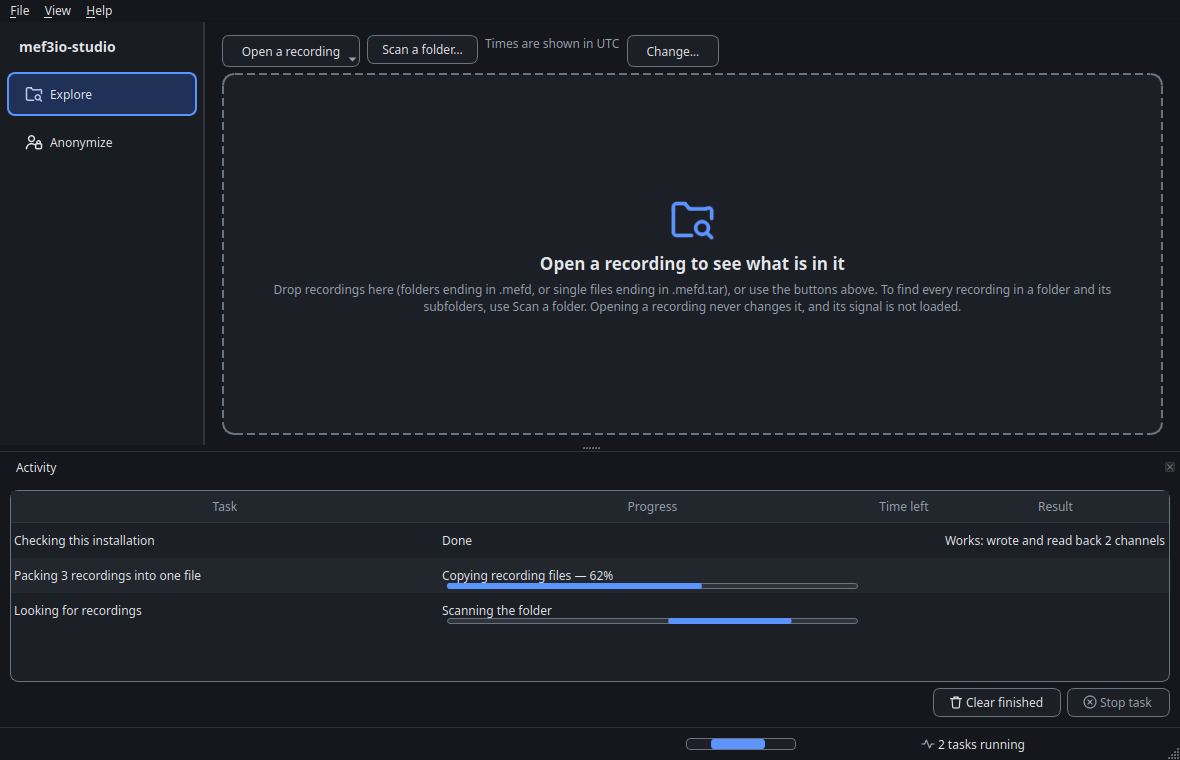
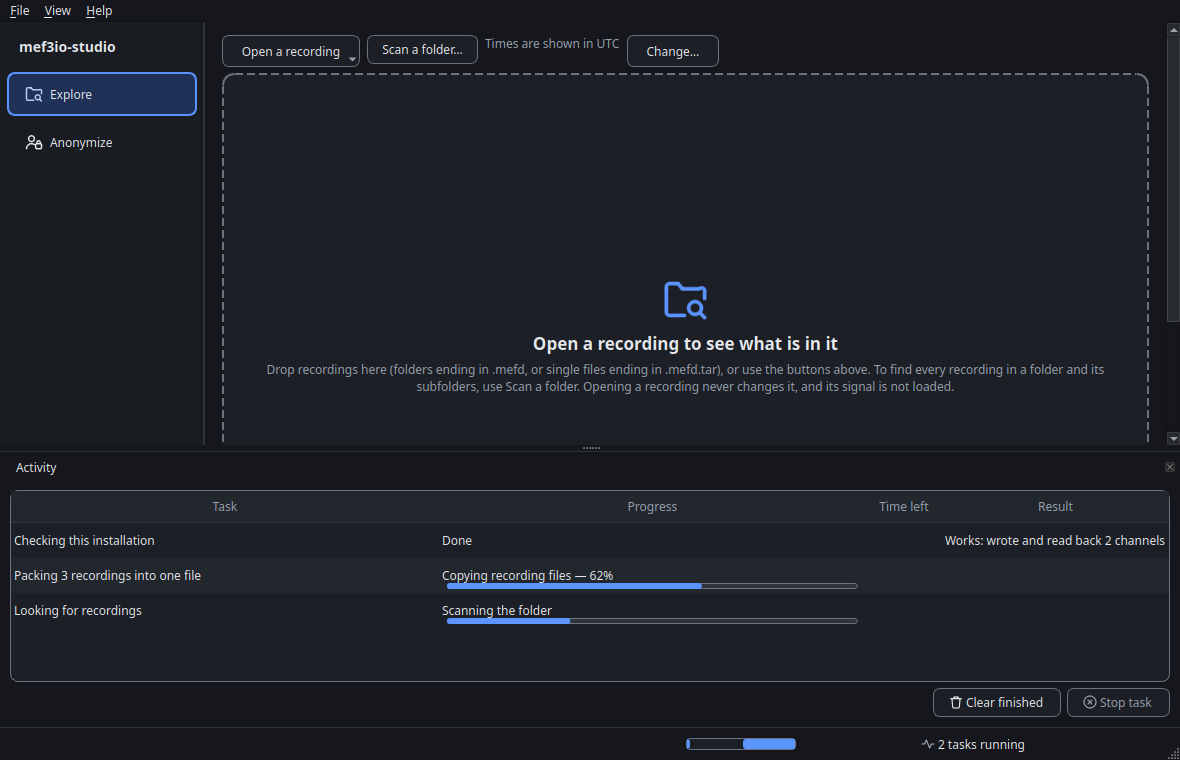
Address review round 6: the list's buttons are never cut off
- The list and its wrapping row of buttons report a minimum height for
  their current width (recomputed when the wrap changes), so the
  splitter never squeezes the wrapped row away; the page's minimum
  includes it, so a short window scrolls instead. Test at 1.0x and 1.5x
  font with the activity panel open, across window sizes (fails before).
- The list keeps at least three rows visible before the page scrolls.
- The page's content keeps direct references to its parts instead of
  relying on layout positions.

Claude-Session: https://claude.ai/code/session_01PWYBRHqzczzUfo99eFKLmQ

diff --git a/src/mef3io_studio/explorer/page.py b/src/mef3io_studio/explorer/page.py
@@ -91,19 +91,62 @@ class _FitInner(QWidget):
     reports the minimum instead: the page fills the window and scrolls only
     when the window is shorter than that."""
 
+    def __init__(self, toolbar, body: QWidget, margins: tuple[int, int, int, int]):
+        super().__init__()
+        self._toolbar, self._body = toolbar, body
+        layout = QVBoxLayout(self)
+        layout.setContentsMargins(*margins)
+        layout.addLayout(toolbar)
+        layout.addWidget(body, 1)
+
     def heightForWidth(self, width: int) -> int:  # noqa: N802
         layout = self.layout()
         margins = layout.contentsMargins()
-        toolbar = layout.itemAt(0).layout()
-        body = layout.itemAt(1).widget()
         inner_width = width - margins.left() - margins.right()
         return (
             margins.top()
             + margins.bottom()
-            + toolbar.heightForWidth(inner_width)
+            + self._toolbar.heightForWidth(inner_width)
             + layout.spacing()
-            + body.minimumSizeHint().height()
+            + self._body.minimumSizeHint().height()
         )
+
+
+class _ListBox(QWidget):
+    """The recordings list and its row of buttons. The buttons wrap onto
+    more lines when narrow, so the minimum height depends on the width:
+    reported here, so the splitter never squeezes the wrapped row away."""
+
+    def __init__(self, table: QTableView, actions, parent=None):
+        super().__init__(parent)
+        self._table, self._actions = table, actions
+        self._wrapped = -1
+        layout = QVBoxLayout(self)
+        layout.setContentsMargins(0, 0, 0, 0)
+        layout.addWidget(table, 1)
+        layout.addLayout(actions)
+        # At least a few rows of the list, so a short window scrolls the
+        # page rather than showing a header with no rows.
+        rows = table.verticalHeader().defaultSectionSize()
+        table.setMinimumHeight(table.horizontalHeader().sizeHint().height() + rows * 3 + 4)
+
+    def _actions_height(self) -> int:
+        width = self.width() if self.width() > 0 else self.sizeHint().width()
+        return self._actions.heightForWidth(width)
+
+    def minimumSizeHint(self):  # noqa: N802
+        hint = super().minimumSizeHint()
+        hint.setHeight(
+            self._table.minimumHeight() + self.layout().spacing() + self._actions_height()
+        )
+        return hint
+
+    def resizeEvent(self, event) -> None:  # noqa: N802
+        super().resizeEvent(event)
+        wrapped = self._actions_height()
+        if wrapped != self._wrapped:
+            self._wrapped = wrapped
+            self.updateGeometry()  # the splitter and the page re-read the minimum
 
 
 class DropZone(QFrame):
@@ -309,11 +352,8 @@ class ExplorerPage(QWidget):
         actions.addWidget(self.pack_button)
         actions.addWidget(self.remove_button)
 
-        list_box = QWidget(self)
-        list_layout = QVBoxLayout(list_box)
-        list_layout.setContentsMargins(0, 0, 0, 0)
-        list_layout.addWidget(self.table, 1)
-        list_layout.addLayout(actions)
+        list_box = _ListBox(self.table, actions, self)
+        self.list_box = list_box
 
         # -- the detail panel -----------------------------------------------------
         self.detail_heading = QLabel("", self)
@@ -376,11 +416,7 @@ class ExplorerPage(QWidget):
         # large text) the page scrolls instead of forcing the window, and
         # the sidebar next to it, to change size. Platforms measure widgets
         # differently, so no single minimum width can be relied on.
-        inner = _FitInner()
-        layout = QVBoxLayout(inner)
-        layout.setContentsMargins(int(em), int(em * 0.8), int(em), int(em * 0.6))
-        layout.addLayout(toolbar)
-        layout.addWidget(self.body, 1)
+        inner = _FitInner(toolbar, self.body, (int(em), int(em * 0.8), int(em), int(em * 0.6)))
         self.scroll = QScrollArea(self)
         self.scroll.setObjectName("Panel")
         self.scroll.setWidgetResizable(True)

diff --git a/tests/test_explorer_ui.py b/tests/test_explorer_ui.py
@@ -521,3 +521,34 @@ def test_page_fills_the_window_without_scrolling(window, qtbot, tmp_path, size):
     qtbot.wait(100)
     assert page.tabs.height() + page.table.height() > before
     assert not page.scroll.verticalScrollBar().isVisible()
+
+
+@pytest.mark.parametrize("scale", [1.0, 1.5])
+def test_list_buttons_are_never_cut_off(qapp, qtbot, settings, tmp_path, scale):
+    """Regression (review round 6): when the list's buttons wrap onto more
+    lines, the list keeps room for them at every window size."""
+    from mef3io_studio.app import build_main_window
+
+    font = qapp.font()
+    bigger = qapp.font()
+    bigger.setPointSizeF(font.pointSizeF() * scale)
+    qapp.setFont(bigger)
+    try:
+        win = build_main_window(qapp, settings)
+        qtbot.addWidget(win)
+        win._closing = True
+        win.show()
+        win.activity_dock.show()
+        page = win.explorer
+        page.open_paths([str(write_plain(tmp_path / "b.mefd", notes=False))], interactive=False)
+        wait_loaded(qtbot, page, 1)
+        page.select_entry(page.entries()[0])
+        for size in ((1280, 800), (1000, 600), (800, 442), (1400, 900)):
+            win.resize(*size)
+            qtbot.wait(80)
+            for button in (page.remove_button, page.check_selected_button, page.pack_button):
+                bottom = button.mapTo(page.list_box, button.rect().bottomLeft()).y()
+                assert bottom < page.list_box.height(), (size, button.text())
+        win.jobs.dispose()
+    finally:
+        qapp.setFont(font)
